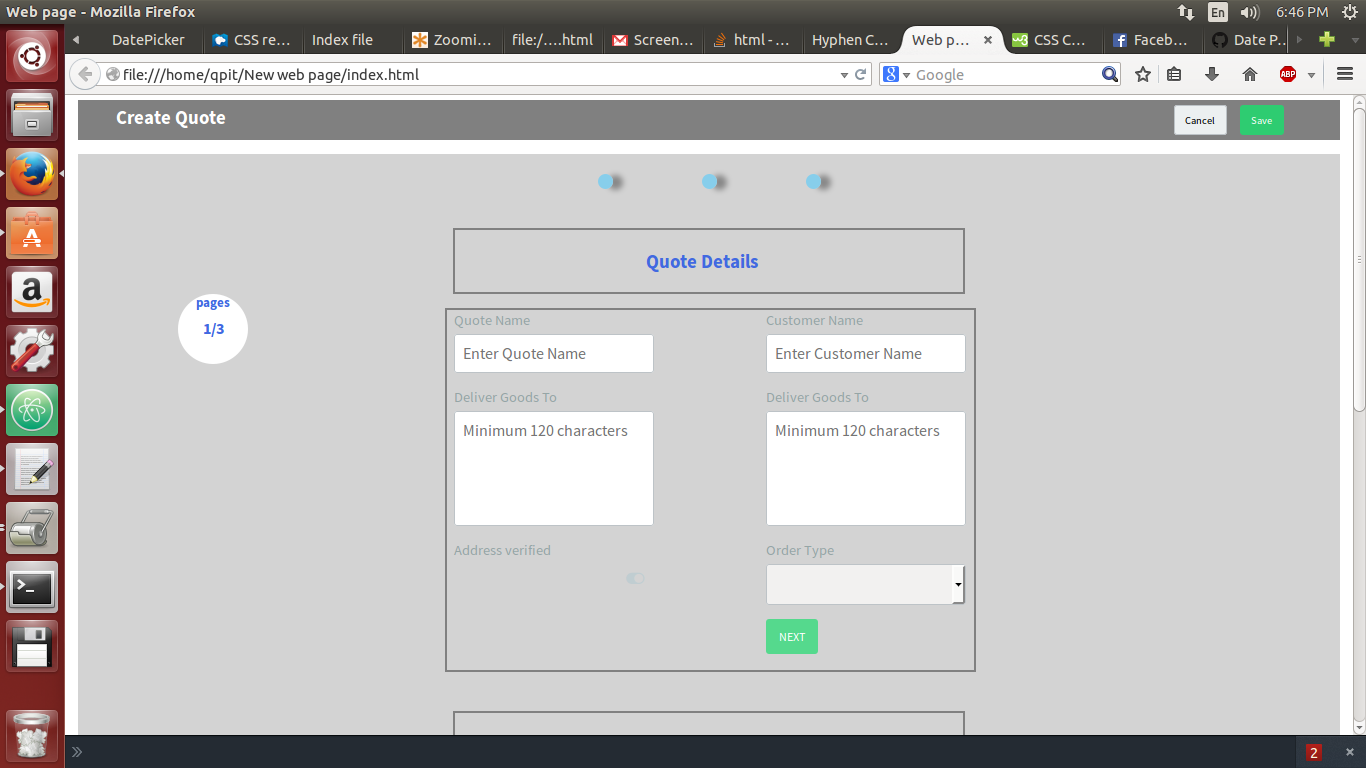
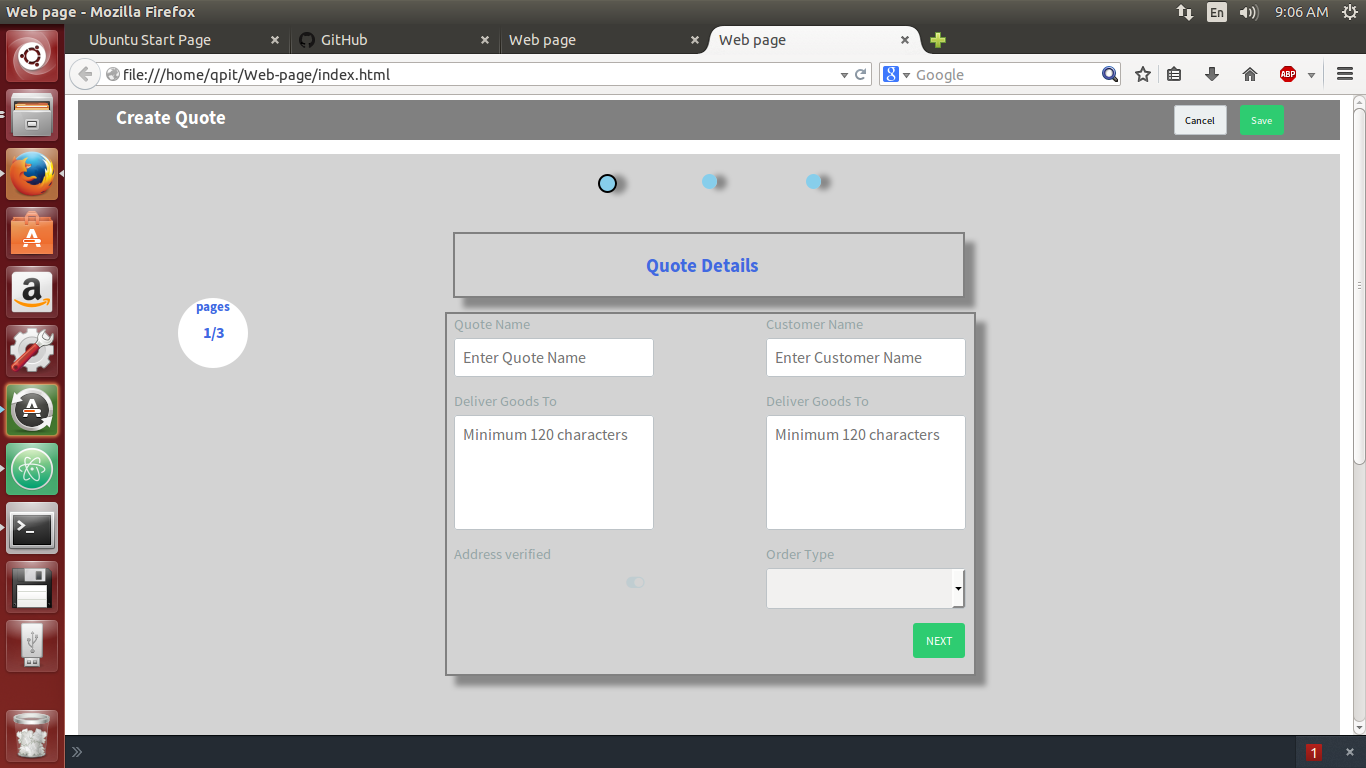
Web page modified

diff --git a/web.js b/web.js
@@ -1,4 +1,8 @@
-$(document).ready(function(){
+$(document).ready(function(){	
+  $("#circle1").css("border", "2px solid black");
+  $('#quotedetails').show();
+  $('#additionalinfo').hide();
+  $('#noteto').hide();
   $('#circle1').click(function(){
     $("#circle1").css("border", "2px solid black");
     $("#circle2").css("border", "0px solid black");
@@ -23,13 +27,45 @@ $(document).ready(function(){
     $('#additionalinfo').hide();
     $('#noteto').show();
   });
-});
+  $('#next1').click(function() {
+	var y = $('#quotename');
+	console.log(y);
+	if(y === null ){
+		alert('fill all boxes');
+	}
+	$("#circle1").css("border", "0px solid black");
+	$("#circle2").css("border", "2px solid black");
+	$("#circle3").css("border", "0px solid black");	
+	$('#quotedetails').hide();
+	$('#additionalinfo').show();
+	$('#noteto').hide();
+	
+		//alert('hello');
+	
+  });
+  $('#next2').click(function(){
+	$("#circle1").css("border", "0px solid black");
+	$("#circle2").css("border", "0px solid black");
+	$("#circle3").css("border", "2px solid black");
+	$('#quotedetails').hide();
+	$('#additionalinfo').hide();
+	$('#noteto').show();
+  });
+  $('#back2').click(function(){
+	$("#circle1").css("border", "2px solid black");
+	$("#circle2").css("border", "0px solid black");
+	$("#circle3").css("border", "0px solid black");
+	$('#quotedetails').show();
+	$('#additionalinfo').hide();
+	$('#noteto').hide();
+  });
+  $('#back3').click(function(){
+	$("#circle1").css("border", "0px solid black");
+	$("#circle2").css("border", "2px solid black");
+	$("#circle3").css("border", "0px solid black");
+	$('#quotedetails').hide();
+	$('#additionalinfo').show();
+	$('#noteto').hide();
+  });
 
-#('#next1').click(function(){
-  $("#circle1").css("border", "0px solid black");
-  $("#circle2").css("border", "2px solid black");
-  $("#circle3").css("border", "0px solid black");
-  $('#quotedetails').hide();
-  $('#additionalinfo').show();
-  $('#noteto').hide();
 });

diff --git a/index.html b/index.html
@@ -73,7 +73,7 @@
               <div class = 'grid'>
                 <div class="grid__item grid__item--2">
                   <label class="label">Quote Name</label>
-                  <input type="text" class="input" placeholder="Enter Quote Name"/>
+                  <input type="text" class="input" placeholder="Enter Quote Name" id = 'quotename'/>
                 </div>
                 <div class="grid__item grid__item--1">
                   &nbsp
@@ -125,7 +125,7 @@
                 <div class="grid__item grid__item--1">
                   &nbsp
                 </div>
-                <div class="grid__item grid__item--2">
+				<div>
                   <div class="grid__item grid__item--2">
                     <button class="btn btn--success btn--small btn--round" id = 'next1'>NEXT</button>
                   </div>
@@ -261,7 +261,7 @@
                     &nbsp
                   </div>
                   <div class="grid__item grid__item--2">
-                    <button class="btn btn--success btn--small btn--round" id = 'next3'>NEXT</button>
+                    <!-- <button class="btn btn--success btn--small btn--round" id = 'next3'>NEXT</button> -->
                   </div>
                 </div>
               </div>

diff --git a/style.css b/style.css
@@ -1,4 +1,3 @@
-
 .body {
   background-color: lightgray;
   height: 1000px;auto;
@@ -78,8 +77,9 @@ div .circleborder h4 {
 
 #text {
   border: 2px solid gray;
-  margin-top: 25px;
+  box-shadow: 10px 10px 5px #888888;
   color: #4169E1;
+  margin-top: 25px;  
   margin-left: 63px;
   margin-right: 30px;
   padding-left: 10px;
@@ -93,31 +93,13 @@ div .circleborder h4 {
 
 #quoteright,#additionalinforight,#notetoright {
   border: 2px solid gray;
+  box-shadow: 10px 10px 5px #888888;
   margin-left: 0px;
   margin-right: 350px;
   padding-left: 7px;
 }
 
-#next {
+#next1, #next3,#next2 {
   margin-left: 147px;
 }
-/*
-#circle2 {
-  background-color: skyblue;
-  border-radius: 100px;
-  cursor: pointer;
-  height: 15px;
-  margin-top: 31px;
-  width: 15px;
 
-}
-
-#circle3 {
-  background-color: skyblue;
-  border-radius: 100px;
-  cursor: pointer;
-  height: 15px;
-  margin-top: 31px;
-  width: 15px;
-}
-*/
